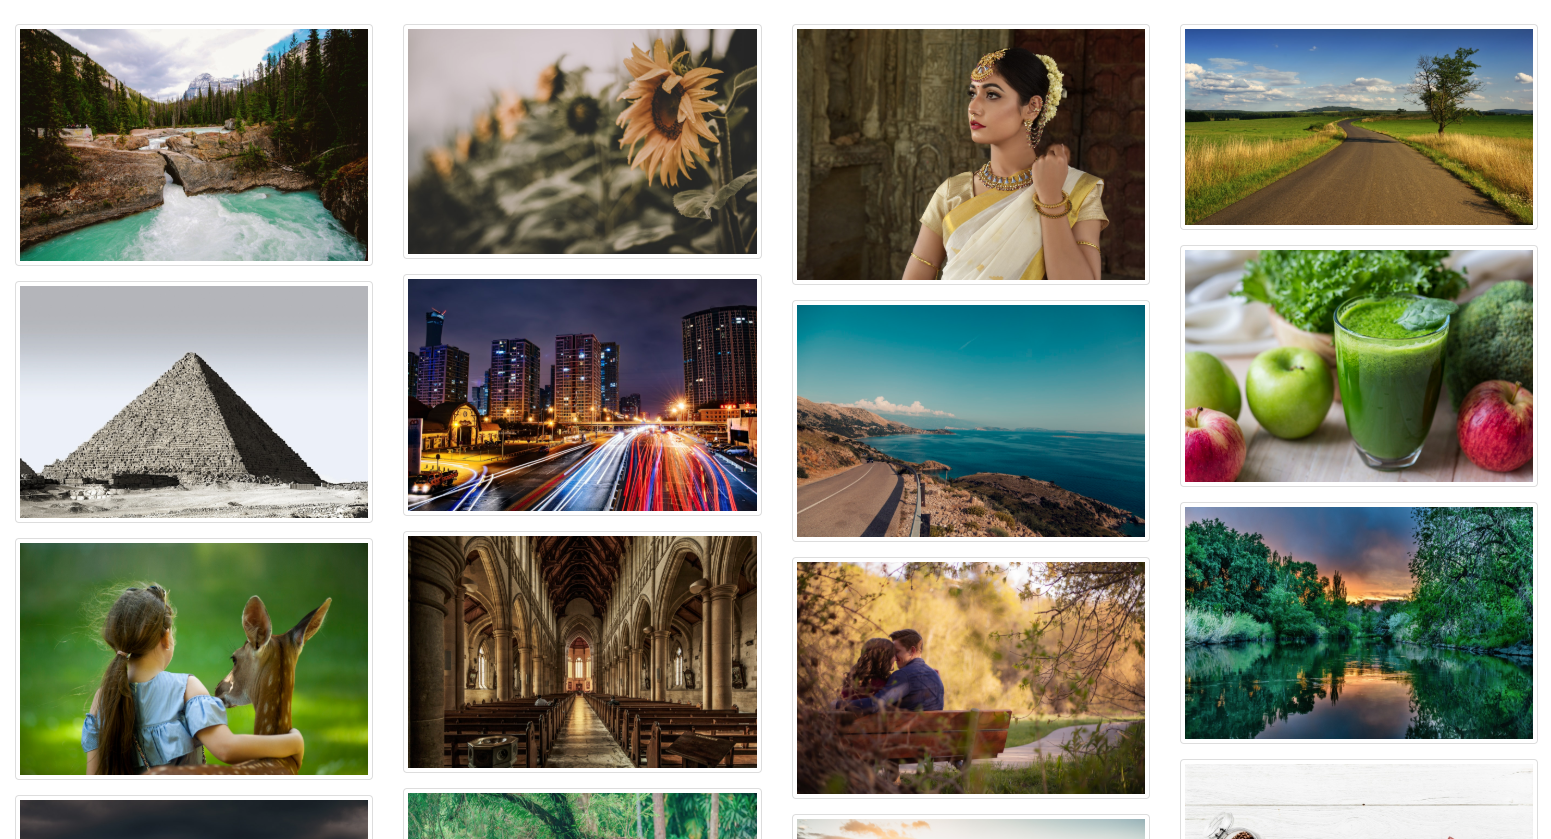
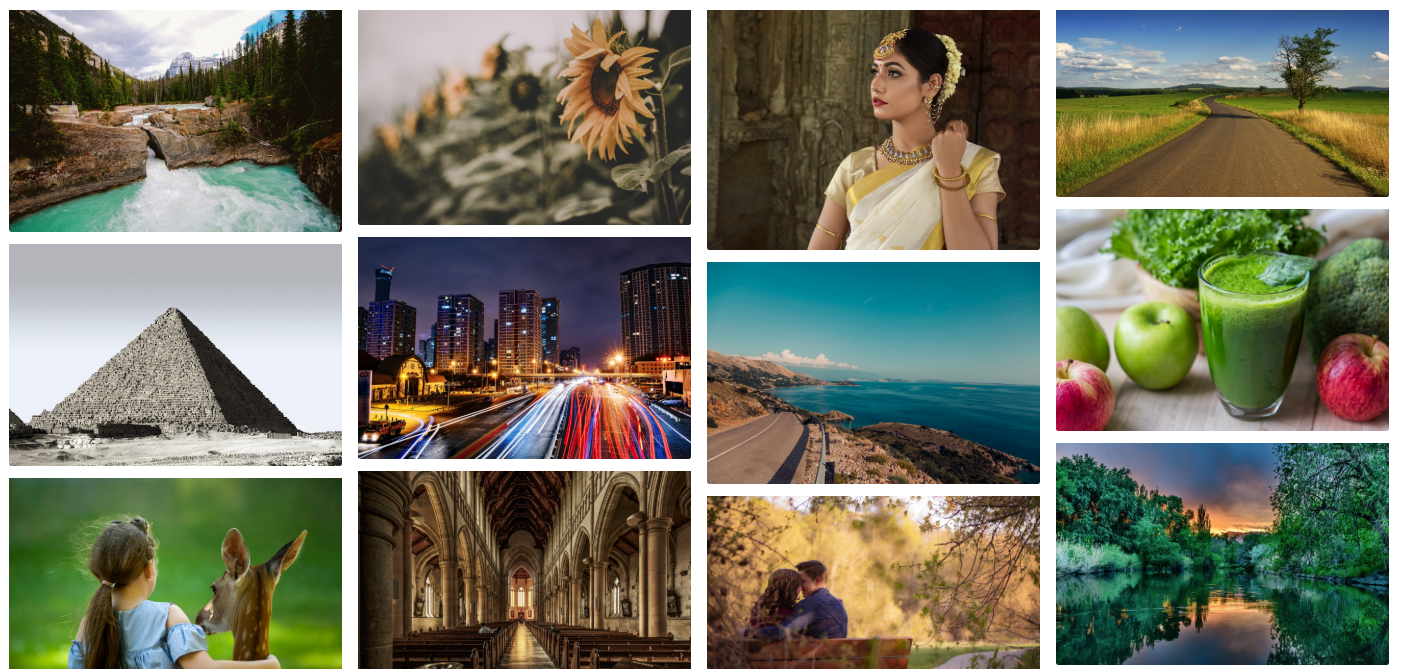
Implemented many styling changes throughout the entire app

diff --git a/assets/styles.css b/assets/styles.css
@@ -1,17 +1,78 @@
 /* Lenslocked.com styles */
 
 body {
-    margin-top: 75px;
+    margin-top: 100px;
 }
 
-.thumbnail {
+.navbar-special {
+    background-color: #222222 !important;
+}
+
+.nav-pad {
+    padding: .5rem 1rem;
+    /* color: darkslategray; */
+}
+
+.navbar .nav-link {
+    border: none;
+    display: inline-block;
+    padding: 1rem 1.25rem !important;
+}
+ .bucket {
+     padding: 0 .5rem;
+ }
+
+ .main-display {
+     padding:1rem 2rem;
+ }
+
+ .gallery-title {
+    padding:1rem 2rem;
+ }
+
+ .custom-upload {
+    margin: 1.5rem 0 .5rem 0;
+ }
+
+/* nav.bg-primary.fixed-top {
+    background-color: #222222;
+} */
+
+.fa-camera-retro {
+    /* color: #187889; */
+    color: gray;
+    text-align: center;
+}
+
+.navbar-brand {
+    font-family: 'Allura', cursive;
+    padding: 7px 15px;
+    color: #151515;
+    font-size: 2.5rem;
+}
+
+.logo {
+    font-family: 'Allura', cursive;
+    font-size: 3.25rem;
+    font-weight: inherit;
+    vertical-align: 5%;
+    /* text-indent: 2rem; */
+    padding-left: .5rem;
+    /* word-spacing: 5mm; */
+}
+
+.card-special {
     width: 100%;
-    margin: 1.5rem 0 1rem 0;
+    margin: .5rem 0 .5rem 0;
     background: transparent;
     border: 0 none;
-    border-radius: 2.5px;
-    padding-top: 1rem;
-    /* margin: 0; */
+    border-radius: 2.5px !important;
+    /* padding-top: .25rem; */
+    margin-top: .25rem;
+}
+
+.card {
+    /* border-radius: 5px; */
 }
 
 .del-btn {
@@ -29,13 +90,14 @@ body {
 .greet {
     width: 100%;
     text-align: center;
-    font-family: 'Cardo', serif;
+    /* font-family: 'Cardo', serif; */
+    font-family: 'Tienne', serif;
     margin-top: 4rem;
 }
 .message {
     width: 100%;
     text-align: center;
-    font-size: 2rem;
+    font-size: 1.25rem;
 }
 
 .cover {

diff --git a/assets/js/mode.js b/assets/js/mode.js
@@ -1,0 +1,46 @@
+
+var light = "assets/image_assets/gallerycover2.PNG";
+var dark = "assets/image_assets/gallerycover3.PNG";
+var lighttheme ="//stackpath.bootstrapcdn.com/bootstrap/4.1.2/css/bootstrap.min.css";
+var darktheme ="//stackpath.bootstrapcdn.com/bootswatch/4.1.2/darkly/bootstrap.min.css";
+
+
+
+//eventlisteners
+
+document.getElementById('light').addEventListener("click", lightmode);
+
+document.getElementById('dark').addEventListener("click", darkmode);
+
+
+//functions
+function lightmode(){
+document.cookie = "theme=lighttheme;path=/";
+document.getElementById('pagestyle').setAttribute('href', lighttheme);
+
+
+// document.getElementById('main-nav').setAttribute('class', document.getElementById('main-nav').getAttribute('class')+' nav_light navbar-light bg-light');
+$('#main-nav').removeClass( "navbar-special bg-primary navbar-dark" );
+$('#main-nav').addClass( "navbar-light bg-white" );
+
+var url = window.location;
+$('ul.navbar-nav a').filter(function () {
+    return this.href == url;
+  }).removeClass('text-success').addClass('text-primary');
+
+console.log(mode);
+}
+
+function darkmode(){
+mode = document.cookie = "theme=darktheme;path=/";
+document.getElementById('pagestyle').setAttribute('href', darktheme);
+$('#main-nav').removeClass( "bg-white" );
+$('#main-nav').addClass( "navbar-special bg-primary" );
+
+var url = window.location;
+$('ul.navbar-nav a').filter(function () {
+    return this.href == url;
+  }).removeClass('text-primary').addClass('text-success'); 
+console.log(mode);
+}
+

diff --git a/assets/js/checks.js b/assets/js/checks.js
@@ -1,0 +1,27 @@
+
+function themeCheck() {
+    var lighttheme ="//stackpath.bootstrapcdn.com/bootstrap/4.1.2/css/bootstrap.min.css";
+    var darktheme ="//stackpath.bootstrapcdn.com/bootswatch/4.1.2/darkly/bootstrap.min.css";
+    var theme = decodeURIComponent(document.cookie);
+    if (theme == "") {
+       document.getElementById('pagestyle').setAttribute('href', darktheme)
+    } else if (theme == "theme=darktheme") {
+        document.getElementById('pagestyle').setAttribute('href', darktheme)
+    } else if (theme == "theme=lighttheme") {
+       document.getElementById('pagestyle').setAttribute('href', lighttheme)
+    }
+}
+
+
+function navBarCheck() {
+    var lightclass ="navbar navbar-expand-lg fixed-top nav-pad navbar-light bg-white";
+    var darkclass ="navbar navbar-expand-lg nav-pad navbar-dark bg-primary fixed-top navbar-special";
+    var theme = decodeURIComponent(document.cookie);
+    if (theme == "") {
+       document.getElementById('main-nav').setAttribute('class', darkclass)
+    } else if (theme == "theme=darktheme") {
+        document.getElementById('main-nav').setAttribute('class', darkclass)
+    } else if (theme == "theme=lighttheme") {
+        document.getElementById('main-nav').setAttribute('class', lightclass);
+    }
+} 

diff --git a/assets/js/homemode.js b/assets/js/homemode.js
@@ -1,0 +1,21 @@
+var light = "assets/image_assets/gallerycover2.PNG";
+var dark = "assets/image_assets/gallerycover3.PNG";
+var lighttheme ="//stackpath.bootstrapcdn.com/bootstrap/4.1.2/css/bootstrap.min.css";
+var darktheme ="//stackpath.bootstrapcdn.com/bootswatch/4.1.2/darkly/bootstrap.min.css";
+
+document.getElementById('light').addEventListener("click", lightphoto);
+document.getElementById('dark').addEventListener("click", darkphoto);
+
+if (document.getElementById('pagestyle').getAttribute('href') == darktheme) {
+    document.getElementById('photo').setAttribute('src', dark);
+} else if (document.getElementById('pagestyle').getAttribute('href') == lighttheme) {
+    document.getElementById('photo').setAttribute('src', light);
+}
+
+function lightphoto(){
+    document.getElementById('photo').setAttribute('src', light);
+}
+
+function darkphoto(){
+    document.getElementById('photo').setAttribute('src', dark);
+}

diff --git a/assets/js/general.js b/assets/js/general.js
@@ -1,0 +1,20 @@
+// dropdown on hover
+
+$('ul.navbar-nav li.dropdown').hover(function() {
+    $(this).find('.dropdown-menu').stop(true, true).delay(100).fadeIn(250);
+  }, function() {
+    $(this).find('.dropdown-menu').stop(true, true).delay(100).fadeOut(250);
+  });
+
+// adds active to nav links according to page users are currently on
+
+var url = window.location;
+var theme = decodeURIComponent(document.cookie);
+if (theme == "theme=lighttheme") {
+  $('ul.navbar-nav a').filter(function () {
+    return this.href == url;
+  }).removeClass('text-success').addClass('text-primary');
+} else {
+  $('ul.navbar-nav a').filter(function () {
+    return this.href == url;
+  }).removeClass('text-primary').addClass('text-success');  }
